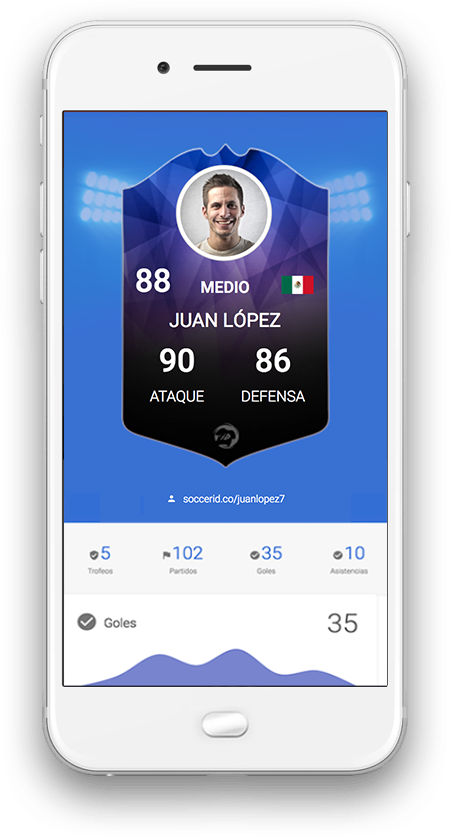
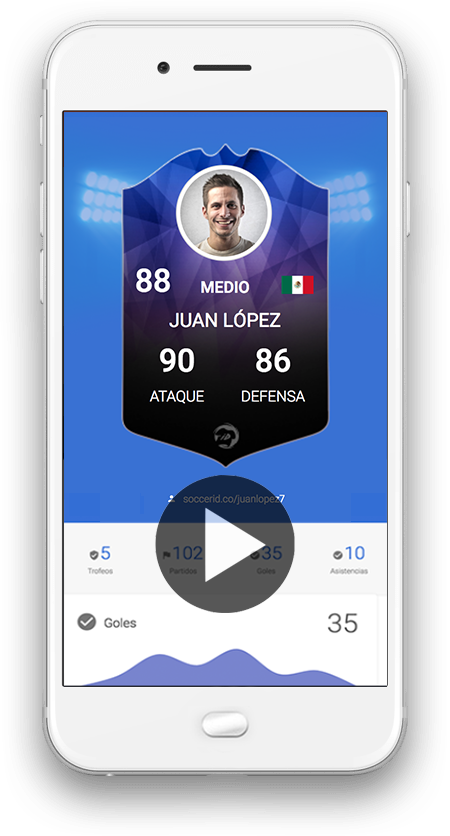
1.0.7 y landing

Changed region(s): [[0.3422, 0.5598, 0.6533, 0.7464]]

diff --git a/www/index--back.html b/www/index--back.html
@@ -59,7 +59,7 @@
 					<div class="nav">
 						
 						<ul class="nav-links sf-menu">
-							<li><a href="#features">¿Qué es SOCCER iD?</a></li>
+							<li><a href="#gallery">¿Qué es SOCCER iD?</a></li>
 							<li><a href="#download">Descarga</a></li>
 						</ul><!-- // END : Navigation links //  -->
 						
@@ -96,13 +96,15 @@
 			<div class="flex-row h100 pd-t-100" data-rgen-sm="pd-t-40" data-rgen-md="mr-t-60">
 				
 				<div class="flex-col-md-5 last-md flex-col-md-offset-1">
-					<figure class="bg-cc bg-contain min-px-h500 h100" data-rgen-sm="min-px-h500" data-bg="https://static.soccerid.co/images/iphone-img-02.png"></figure>
+					<a href="https://www.youtube.com/watch?v=f-PGRt8OoNA" target="_blank"><figure class="bg-cc bg-contain min-px-h500 h100" data-rgen-sm="min-px-h500" data-bg="https://static.soccerid.co/images/iphone-img-02.png"></figure></a>
 				</div><!-- // END : column //  -->
+
+
 
 				<div class="flex-col-md-6 flex-cc">
 					<div class="content align-c">
 						<!-- <h1 class="title txt-white fs40" data-rgen-sm="medium" data-rgen-md="medium">DONDE EL CRACK ERES TÚ</h1>
-						<p class="title-sub txt-white mini" data-rgen-sm="small">More powerful and easy way to discover and explore your destination’s full details with tons of photos and videos</p> -->
+					
 						
 						<!--=================================
 						= Form block
@@ -112,20 +114,12 @@
 
 						<div class="flex-row mr-tb-30 align-c middle-md">
 						<img src="https://static.soccerid.co/images/elcrack.png" class="elcrack">
-						<p class="title-sub txt-white  introp" data-rgen-sm="small"><b>¿Juegas Fútbol?</br>
-						¡Es momento de que seas el progatonista!</b></br> 
-						Tus Estadísticas, Avisos de Equipos, Nivel de Juego</br>
-						y grandes Benefcios. <b>Únete con:</b></p>
-							<div class="butlap align-c">
-							<a href="/a/twitter" class="btn btn-white solid large twitter-reg" data-rgen-sm="medium bold-n"><i class="fa fa-twitter"></i></a>
-							<a href="/a/facebook" class="btn btn-white solid large facebook-reg" data-rgen-sm="medium bold-n"><i class="fa fa-facebook"></i> </a>
-							<!-- <a href="#" class="btn btn-white solid large facebook-reg" data-rgen-sm="medium bold-n"><i class="fa fa-google"></i> </a> --></div>
+						<p class="title-sub txt-white  introp" data-rgen-sm="small">
+						<b>SOCCER iD es tu registro de futbolista:</b></br> Tus Estadísticas, Equipos, Nivel de Juego, Videos
+						y grandes Beneficios.</p>
+							
 
-							<div class="butmov flex-col-md-12">
-							<a href="/a/twitter" class="btn btn-default txt-upper large registrate"><i class="fa fa-twitter"></i></a>
-							<a href="/a/facebook" class="btn btn-default txt-upper large registrate"><i class="fa fa-facebook"></i></a>
-							<!-- <a href="#" class="btn btn-default txt-upper large registrate"><i class="fa fa-google"></i></a> -->
-							</div>
+							
 
 						</div>
 
@@ -144,7 +138,7 @@
 			<div class="flex-row gt20 ">
 				<div class="flex-col-md-4">
 					<div class="info-obj img-l g20 mini">
-						<div class="img"><span class="iconwrp txt-color1"><i class="fa fa-shield"></i></span></div>
+						<div class="img"><span class="iconwrp txt-color1"><i class="fa fa-mobile-phone"></i></span></div>
 						<div class="info">
 							<h3 class="title mini bold-n mr-b-4"><b>1 - Crea tu SOCCER iD</b></h3>
 							<p class="mr-0">Registro de Jugador y Player Card.</p>
@@ -152,22 +146,22 @@
 					</div><!-- info box -->
 				</div><!-- // END : column //  -->
 				
-				<div class="flex-col-md-4" style="opacity: 0.3">
+				<div class="flex-col-md-4" style="">
 					<div class="info-obj img-l g20 mini">
-						<div class="img"><span class="iconwrp txt-color1"><i class="fa fa-line-chart"></i></span></div>
+						<div class="img"><span class="iconwrp txt-color1"><i class="fa fa-shield"></i></span></div>
 						<div class="info">
-							<h3 class="title mini bold-n mr-b-4"><b>2 - Vincula tus Logros</b></h3>
-							<p class="mr-0">Cada gol, pase o atajada cuenta. <b>Feb 2017</b></p>
+							<h3 class="title mini bold-n mr-b-4"><b>2 - Vincula tus Equipos</b></h3>
+							<p class="mr-0">Dinos en que equipos juegas </p>
 						</div>
 					</div><!-- info box -->
 				</div><!-- // END : column //  -->
 
 				<div class="flex-col-md-4" style="opacity: 0.3">
 					<div class="info-obj img-l g20 mini">
-						<div class="img"><span class="iconwrp txt-color1"><i class="fa fa-mobile-phone"></i></span></div>
+						<div class="img"><span class="iconwrp txt-color1"><i class="fa fa-line-chart"></i></span></div>
 						<div class="info">
 							<h3 class="title mini bold-n mr-b-4"><b>3- Experiencia Completa</b></h3>
-							<p class="mr-0">Descarga #ElCrackEresTú. <b>Feb 2017</b></p></p>
+							<p class="mr-0">Cada gol, pase o atajada cuenta. <b>Mayo 2017</b></p></p>
 						</div>
 					</div><!-- info box -->
 				</div><!-- // END : column //  -->
@@ -197,20 +191,7 @@
 	************************************************************
 	* Content section
 	************************************************************ -->
-	<section class="pos-rel pd-tb-micro" data-rgen-sm="pd-tb-small" id="features">
-		<div class="container">
-<!--=========================================
-			=            Content section - 1            =
-			==========================================-->
-			<div class="w75 mr-auto align-c">
-				<!-- <h2 class="title">SOCCER iD</h2> -->
-				<p class="title-sub"></br><b>SOCCER iD</b> es la plataforma que</br>
-lleva la <b>experiencia del jugador al siguiente nivel.</br>&#8595;</p>
-			</div>
-			</div><!-- / row -->
-
-			<div class="full-wh op-01 bg-cc" data-bg="https://static.soccerid.co/images/pattern-02.png"></div>
-</section>
+	
 			<!-- ************** END : Content section **************  -->
 
 			
@@ -414,9 +395,8 @@ lleva la <b>experiencia del jugador al siguiente nivel.</br>&#8595;</p>
 	<section class="pd-t-0 pd-tb-small pos-rel" data-rgen-sm="pd-b-40" id="download">
 		<img src="https://static.soccerid.co/images/iphone-img-06.png" class="mr-b-80 mr-auto" data-rgen-sm="mr-b-10" alt="image">
 		<div class="container pos-rel z1 align-c">
-		<h4>Próximamente (Etapa 3, febrero 2017)</h4>
-		<a href="#" class="appstore-btn app-apple"><i class="fa fa-apple"></i><small>Download on the</small>App Store</a>
-		<a href="#" class="appstore-btn app-google-play"><i class="fa fa-android"></i><small>Get it on</small>Google play</a></div>
+		<a href="https://itunes.apple.com/mx/app/soccer-id/id1222346288?mt=8" class="appstore-btn app-apple"><i class="fa fa-apple"></i><small>Disponible en la</small>App Store</a>
+		<a href="https://play.google.com/store/apps/details?id=co.soccerid.app" class="appstore-btn app-google-play"><i class="fa fa-android"></i><small>Disponible en</small>Google play</a></div>
 	</section>
 	<!-- ************** END : Features **************  -->
 	<!--
@@ -426,10 +406,9 @@ lleva la <b>experiencia del jugador al siguiente nivel.</br>&#8595;</p>
 	<section class="pd-tb-small pos-rel" data-rgen-sm="pd-tb-small" id="register">
 		<div class="container typo-light align-c pos-rel z1">
 			<div class="w-75 mr-auto">
-				<h2 class="title fs70" data-rgen-sm="medium">Más de <b>150,890 jugadores</b> </br>ya tienen su SOCCER iD</h2>
-				<h3 class="title bold-n mr-b-50" data-rgen-sm="medium">No te quedes fuera, únete a la <b>1a Etapa</b> con: </h3>
+				<h2 class="title fs70" data-rgen-sm="medium">Más de <b>150,890 jugadores</b></h2> <a href="" style="font-size: 20px; color: white; text-decoration: underline; opacity: 0.8; font-weight: 100; margin-bottom: 30px;">Ve el tutorial de creación </a></br>
+				<h3 class="title bold-n mr-b-20" data-rgen-sm="medium"><b>Ingresa</b> con: </h3>
 
-				<a href="/a/twitter" class="btn btn-white solid large twitter-reg" data-rgen-sm="medium bold-n"><i class="fa fa-twitter"></i></a>
 				<a href="/a/facebook" class="btn btn-white solid large facebook-reg" data-rgen-sm="medium bold-n"><i class="fa fa-facebook"></i> </a>
 				<!-- <a href="#" class="btn btn-white solid large facebook-reg" data-rgen-sm="medium bold-n"><i class="fa fa-google"></i> </a> -->
 				
@@ -466,7 +445,7 @@ lleva la <b>experiencia del jugador al siguiente nivel.</br>&#8595;</p>
 				<div class="flex-col-md-3">
 					<h2 class="title tiny bold-n">Links</h2>
 					<ul class="list-1">
-						<li><a href="#features">¿Qué es SOCCER iD?</a></li>
+						<li><a href="#gallery">¿Qué es SOCCER iD?</a></li>
 						<li><a href="#download">Descarga</a></li>
 						<li><a href="#register">Crea tu SOCCER iD</a></li>
 						<li><a href="https://somosfut.com" target="_blank">SOMOSFUT</a></li>

diff --git a/platforms/android/assets/www/static/last/css/style.css b/platforms/android/assets/www/static/last/css/style.css
@@ -318,7 +318,7 @@ a.control_next {
 	width: 100%;
 	text-align: center;
 	position: absolute;
-	bottom: 40px;
+	bottom: 20px;
 }
 
 .closesu{
@@ -350,8 +350,41 @@ a.control_next {
 	.soccer-links{margin-top: -30px!important;}
 }
 
+@media (min-width: 0) and (max-width: 376px) {
+	.tuto-p p{
+	font-size: 14px;
+	}
+	#slider ul {
+	  height: 392px;
+	}
+
+	#slider ul li {
+	  width: 375px;
+	  height: 392px;
+	}
+}
+
+
 @media (min-width: 0) and (max-width: 320px) {
 	.message p { color: #eee!important; font-weight: lighter; margin-top: 8px; font-size: 12px;}
+	.tuto-p p{
+	font-size: 11px;
+	}
+	#slider ul {
+	  height: 320px;
+	}
+
+	#slider ul li {
+	  width: 320px;
+	  height: 334px;
+	}
+
+	.dw{
+	width: 100%;
+	text-align: center;
+	position: absolute;
+	bottom: 20px;
+	}
 }
 
 @media (min-width: 600px) {

diff --git a/platforms/browser/www/static/last/css/style.css b/platforms/browser/www/static/last/css/style.css
@@ -318,7 +318,7 @@ a.control_next {
 	width: 100%;
 	text-align: center;
 	position: absolute;
-	bottom: 40px;
+	bottom: 20px;
 }
 
 .closesu{
@@ -350,8 +350,41 @@ a.control_next {
 	.soccer-links{margin-top: -30px!important;}
 }
 
+@media (min-width: 0) and (max-width: 376px) {
+	.tuto-p p{
+	font-size: 14px;
+	}
+	#slider ul {
+	  height: 392px;
+	}
+
+	#slider ul li {
+	  width: 375px;
+	  height: 392px;
+	}
+}
+
+
 @media (min-width: 0) and (max-width: 320px) {
 	.message p { color: #eee!important; font-weight: lighter; margin-top: 8px; font-size: 12px;}
+	.tuto-p p{
+	font-size: 11px;
+	}
+	#slider ul {
+	  height: 320px;
+	}
+
+	#slider ul li {
+	  width: 320px;
+	  height: 334px;
+	}
+
+	.dw{
+	width: 100%;
+	text-align: center;
+	position: absolute;
+	bottom: 20px;
+	}
 }
 
 @media (min-width: 600px) {

diff --git a/platforms/ios/www/static/last/css/style.css b/platforms/ios/www/static/last/css/style.css
@@ -318,7 +318,7 @@ a.control_next {
 	width: 100%;
 	text-align: center;
 	position: absolute;
-	bottom: 40px;
+	bottom: 20px;
 }
 
 .closesu{
@@ -350,8 +350,41 @@ a.control_next {
 	.soccer-links{margin-top: -30px!important;}
 }
 
+@media (min-width: 0) and (max-width: 376px) {
+	.tuto-p p{
+	font-size: 14px;
+	}
+	#slider ul {
+	  height: 392px;
+	}
+
+	#slider ul li {
+	  width: 375px;
+	  height: 392px;
+	}
+}
+
+
 @media (min-width: 0) and (max-width: 320px) {
 	.message p { color: #eee!important; font-weight: lighter; margin-top: 8px; font-size: 12px;}
+	.tuto-p p{
+	font-size: 11px;
+	}
+	#slider ul {
+	  height: 320px;
+	}
+
+	#slider ul li {
+	  width: 320px;
+	  height: 334px;
+	}
+
+	.dw{
+	width: 100%;
+	text-align: center;
+	position: absolute;
+	bottom: 20px;
+	}
 }
 
 @media (min-width: 600px) {

diff --git a/www/dash.html b/www/dash.html
@@ -261,7 +261,7 @@ market://details?id=com.camarafanbolero.com
       </div>
 <!-- ios -->
       <div class="dw">
-            <a id="linkSU" href="#" class="linkapp"><img src="static/last/img/dwios.png" class="app"></a>
+            <a id="linkSU" href="#" class=""><img src="static/last/img/dwios.PNG" class="app"></a>
       </div>
 <!-- ios -->
 

diff --git a/www/static/css/custom.css b/www/static/css/custom.css
@@ -16,6 +16,8 @@
     color: #fff !important;
     background-color: transparent !important;
     font-weight: lighter !important;
+    padding-left: 40px!important;
+    padding-right: 40px!important;
 	}	
 
 	.facebook-reg:hover{

diff --git a/www/static/last/css/style.css b/www/static/last/css/style.css
@@ -241,7 +241,6 @@ html input[disabled] { background: #ccc; }
 	color: white;
 	margin: auto;
 	text-align: center;
-	font-weight: 100;
 }
 
 #slider {
